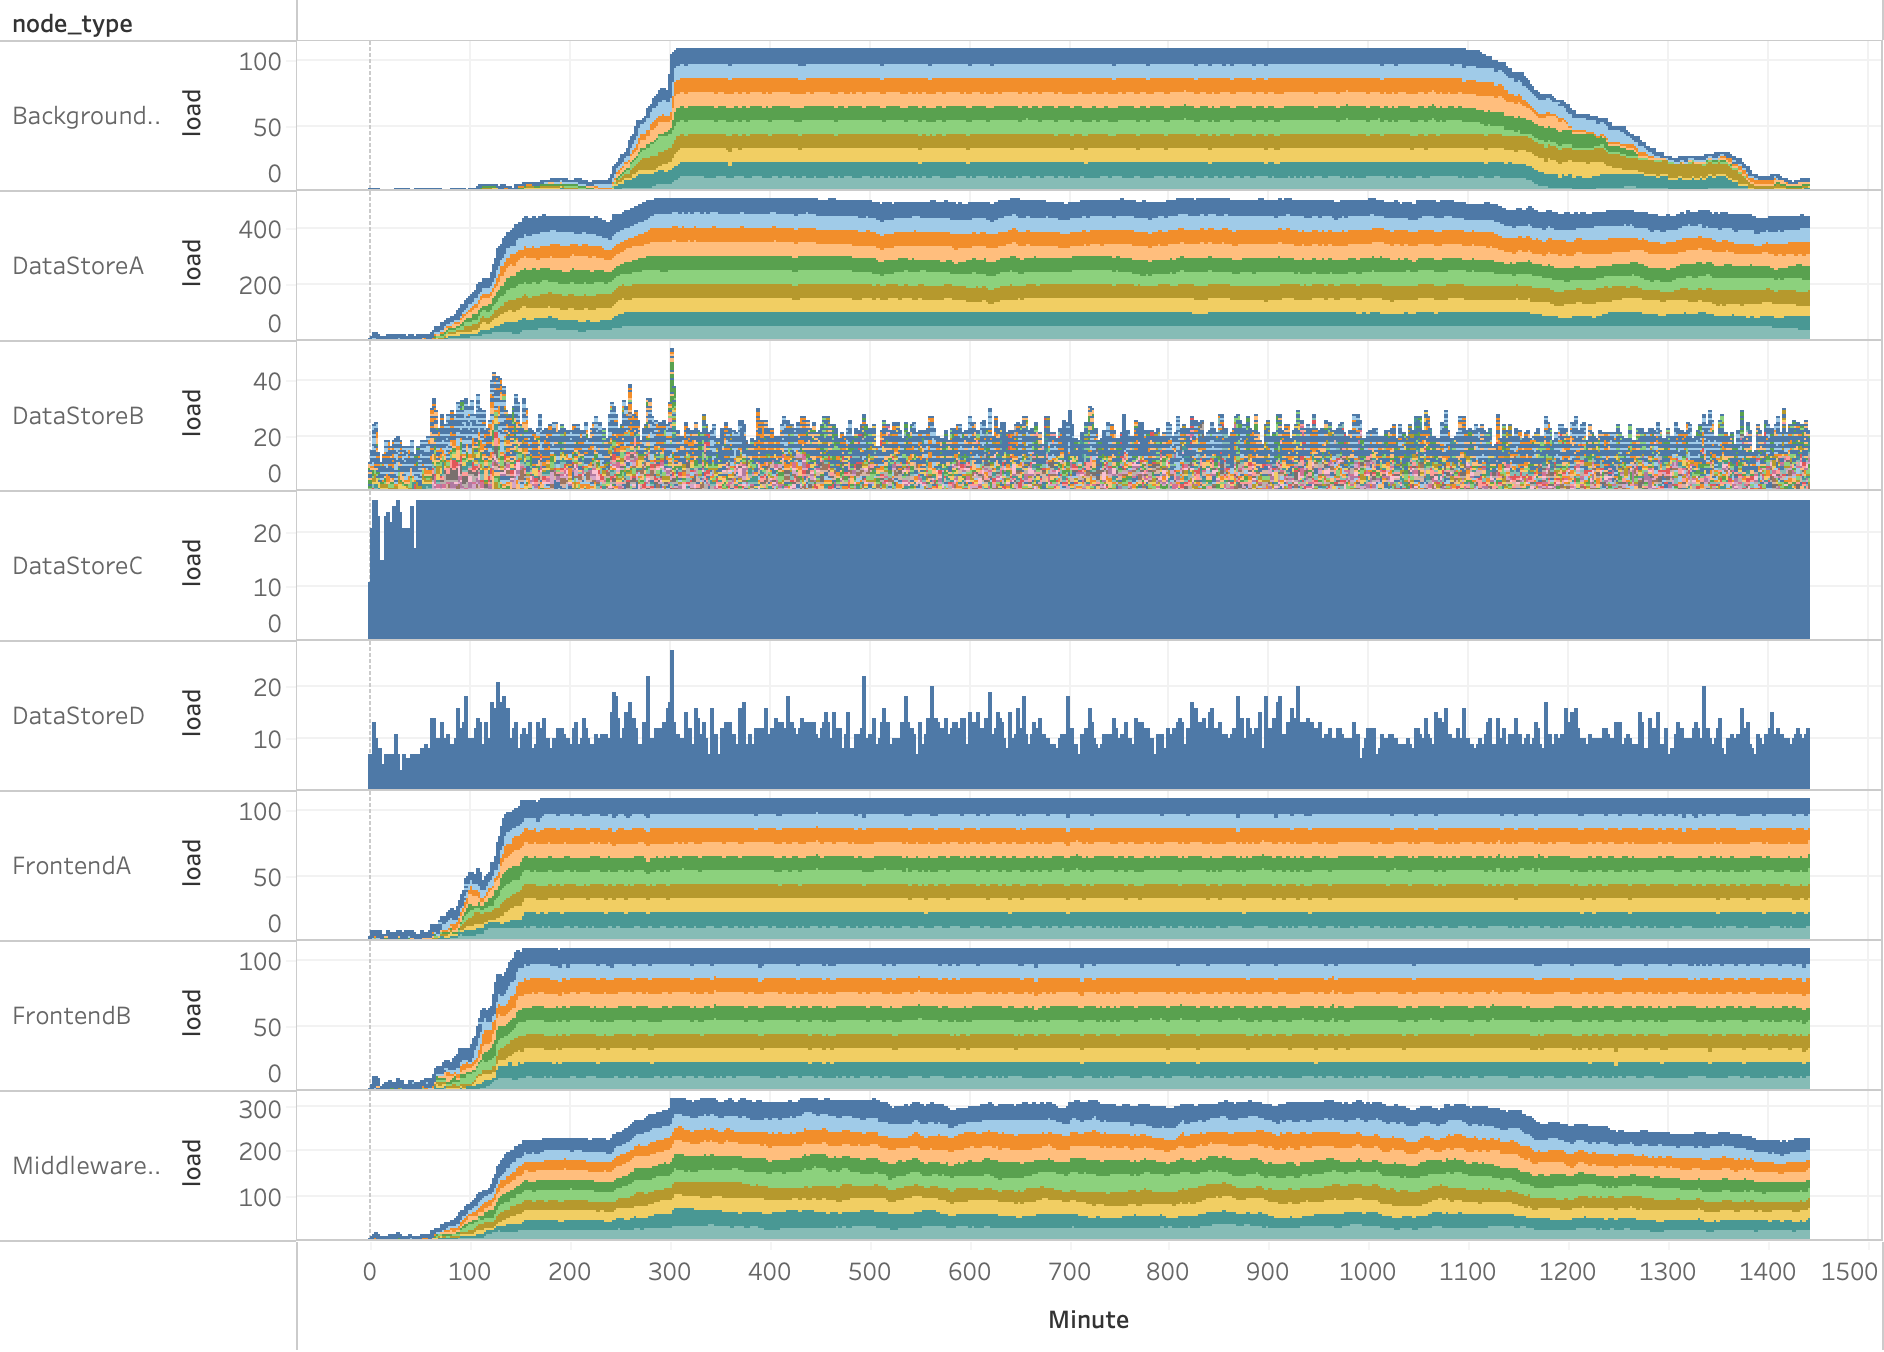
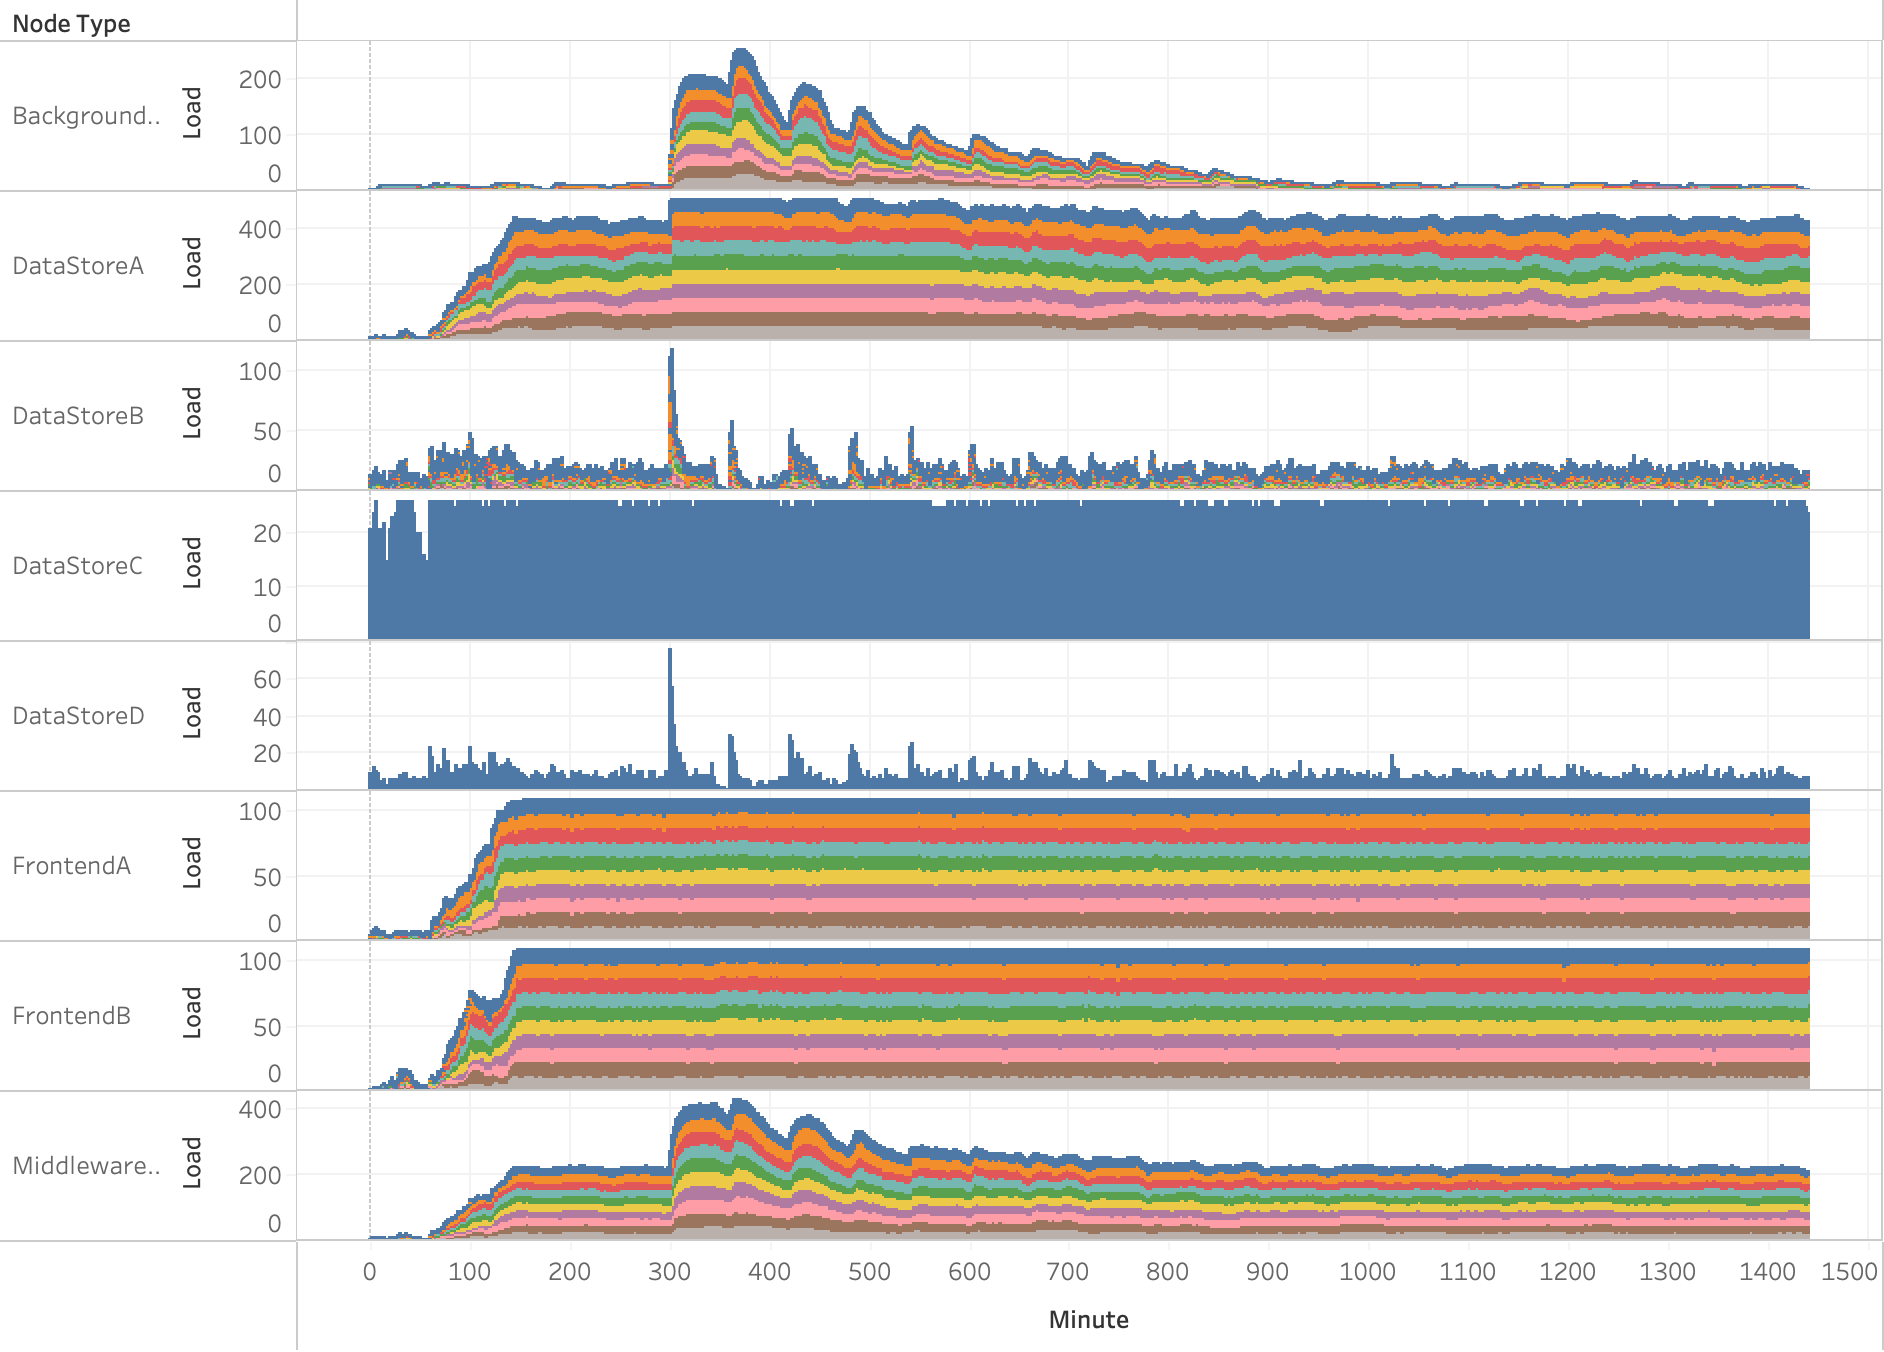
Adding geometric distribution, some other things. Next up; request timeouts

diff --git a/configure.cpp b/configure.cpp
@@ -24,6 +24,8 @@ void initialize_simulation() {
     simulated_load sim;
     assertm(config[v.GetString()].HasMember("load"),
             "No hourly load configured for driver");
+    assertm(config[v.GetString()]["load"].HasMember("distribution"),
+		"No distribution set for hourly load");
     assertm(config[v.GetString()]["load"].HasMember("requests"),
             "No hourly request load");
     assertm(config[v.GetString()]["load"].HasMember("users"),
@@ -48,6 +50,16 @@ void initialize_simulation() {
             "load must be an 24 array");
     assertm(config[v.GetString()]["load"]["sites"].Size() == 24,
             "load must be an 24 array");
+
+    string d = config[v.GetString()]["load"]["distribution"].GetString();
+    
+    if (d == "uniform")
+      sim.distribution = dist_model::UNIFORM;
+    if (d == "normal")
+      sim.distribution = dist_model::NORMAL;
+    if (d == "geometric")
+      sim.distribution = dist_model::GEOMETRIC;
+    
     for (int i = 0; i < 24; i++) {
       external_load hour_load;
       hour_load.requests =
@@ -91,6 +103,11 @@ distribution configure_dist(const Value &input) {
     assert(input["max"].IsInt());
     d.min = input["min"].GetInt();
     d.max = input["max"].GetInt();
+  } else if (strcmp(input["dist"].GetString(), "geometric") == 0) {
+    d.dist = dist_model::GEOMETRIC;
+    assertm(input.HasMember("prob"), "Probability not set on geometric distribution");
+    assert(input["prob"].IsDouble());
+    d.prob = input["prob"].GetDouble();
   } else {
     assertm(false, "Only normal distributions are supported");
   }

diff --git a/simulator.cpp b/simulator.cpp
@@ -61,7 +61,7 @@ void create_request(string node, unsigned long parent_id,
   new_request.network_time_left = get_value(latency[node]);
   // use cache / self time
   unsigned int cache_value = get_value(cache[node]);
-  if (cache_value > get_value_uniform(1, 100)) {
+  if (cache_value > 50) {
     new_request.use_cache = true;
     new_request.self_time_left = 0;
   } else {
@@ -176,7 +176,19 @@ bool tick() {
         for (int r = 0; r < simulation[d].hours[global_clock.hour - 1].requests;
              r++) {
           // create external load request
-          unsigned long ms_splay = get_value_uniform(1, 1000 * 60 * 60);
+	  unsigned long ms_splay;
+	  switch (simulation[d].distribution) {
+	  case UNIFORM:
+	    ms_splay = get_value_uniform(1, 3600000);
+	    break;
+	  case NORMAL:  // This really isn't a useful load model
+	    ms_splay = get_value_normal(30, 15)*60000;
+	    break;
+	  case GEOMETRIC:
+	    ms_splay = get_value_geometric(0.1) * 36000;
+	    break;
+	  }
+
           unsigned long tick_splay = ms_splay / global_clock.ms_per_tick;
           unsigned long adjusted_start_tick =
               global_clock.current_tick + tick_splay;

diff --git a/distribution.cpp b/distribution.cpp
@@ -5,6 +5,17 @@ using namespace std;
 
 default_random_engine generator;
 
+unsigned int get_value_geometric(double prob) {
+  geometric_distribution<int> distribution(prob);
+  double number = distribution(generator);
+  if (number < 0) number = 0;
+  return (unsigned int) number;
+}
+
+unsigned int get_value_geometric(distribution d) {
+  return get_value_geometric(d.prob);
+}
+
 unsigned int get_value_uniform(unsigned int min, unsigned int max) {
   uniform_int_distribution<int> distribution(min, max);
   double number = distribution(generator);
@@ -18,7 +29,7 @@ unsigned int get_value_uniform(distribution d) {
 }
 
 unsigned int get_value_normal(unsigned int mean, unsigned int stddev) {
-  normal_distribution<int> distribution(mean, stddev);
+  normal_distribution<double> distribution(mean, stddev);
   double number = distribution(generator);
   if (number < 0)
     number = 0;
@@ -35,6 +46,8 @@ unsigned int get_value(distribution d) {
     return get_value_normal(d);
   case UNIFORM:
     return get_value_uniform(d);
+  case GEOMETRIC:
+    return get_value_geometric(d);
   default:
     assert(false);
   }

diff --git a/include/distribution.h b/include/distribution.h
@@ -1,6 +1,6 @@
 #pragma once
 
-typedef enum { NORMAL, UNIFORM } dist_model;
+typedef enum { NORMAL, UNIFORM, GEOMETRIC } dist_model;
 
 typedef struct {
   dist_model dist;
@@ -8,8 +8,11 @@ typedef struct {
   unsigned int stddev;
   unsigned int min;
   unsigned int max;
+  double prob;
 } distribution;
 
+unsigned int get_value_geometric(double prob);
+unsigned int get_value_geometric(distribution d);
 unsigned int get_value_uniform(unsigned int min, unsigned int max);
 unsigned int get_value_uniform(distribution d);
 unsigned int get_value_normal(unsigned int mean, unsigned int stddev);

diff --git a/include/bte.h b/include/bte.h
@@ -38,6 +38,7 @@ typedef struct {
 } external_load;
 
 typedef struct {
+  dist_model distribution;
   external_load hours[24];
 } simulated_load;
 

diff --git a/README.md b/README.md
@@ -4,8 +4,6 @@ The (Not Much) Better Than Excel Distributed Systems Simulator fills a gap where
 
 This can help illuminate choke points or issues in a fast and simple way to people inexperienced with the subtlities of the problems. It CANNOT help with correctness (this is not TLA+). It CANNOT help solve existing performance issues. It can help answer very simple what if questions.
 
-This is currently one giant C++ file. The the appropriate encouragement I can make it all fancy-pants.
-
 ## Building
 ```
 > mkdir build
@@ -50,14 +48,15 @@ A node type is defined with an object such as
         "growthmodel": "linear",  // capacity growth model
         "limit": 10,              // capacity limit
         "load": {                 // external load to generate per hour
+        	  "distribution": "geometric",
             "requests": [...],
             "users"   : [...],
             "content" : [...],
             "sites"   : [...]
         },
         "cache": { "dist": "normal", "mean": 50, "stddev": 25 },
-        "self_time": { "dist": "normal", "mean": 1000, "stddev": 250 },
-        "network_latency": { "dist": "normal", "mean": 250, "stddev": 50 },
+        "self_time": { "dist": "uniform", "min": 10, "max": 250 },
+        "network_latency": { "dist": "geometric", "prob": 0.05},
         "dependencies": {
             "NodeTypeB": { "dist": "normal", "mean": 50, "stddev": 10 },
             "NodeTypeC": { "dist": "normal", "mean": 50, "stddev": 10 },
@@ -69,12 +68,18 @@ A node type is defined with an object such as
 * `balanced` defines how requests are balanced across those instances. The options are `random`, `content`, `sites`, `users`
 * `growthmodel` defines how capacity on an instance is regulated as load changes. Currently the options are simple `linear` and `logistic` models
 * `limit` is used by the growth model to set the current capacity
-* `load` is used by the load drivers within the cluster to define the requests and the maximum distinct users, content, and sites to generate per hour. Each of the requests is uniformly distributed between the hours. Each of these arrays should be of length 24 (for each hour of the day) and integers.
-* `cache` defines the probability that the cache will be hit for a request. you specify a distribution (currently `uniform` or `normal`). Values need to be between 0-100.
-* `self_time` defines the time spent servicing the request by the instance itself. It is specified in a distribution of milliseconds in either a `uniform` (with a `max` and `min`) or `normal` distribution (with `mean` and `stddev`.
+* `load` is used by the load drivers within the cluster to define the requests and the maximum distinct users, content, and sites to generate per hour. Each of these arrays should be of length 24 (for each hour of the day) and integers. You must specify how the load is distributed throughout the hour. The choices are `geometric` where most load is distributed at the start of the hour, `uniform` where it is distributed uniformly throughout the hour, and `normal` which is a normal distribution around the 30 minute mark. The parameterization of these distributions is fixed.
+* `cache` defines the probability that the cache will be hit for a request. you specify a distribution (`uniform` or `normal`). A value above 50 will use the cache, so the distributions should be sensibly configured.
+* `self_time` defines the time spent servicing the request by the instance itself. It is specified in a distribution of milliseconds in either a `uniform` or `normal` distribution  or `geometric`.
 * `network_latency` is similar to `self_time`, but cache hits will not impact it.
 * `dependencies` is a list of node types this node depends on and the probability that a particular dependency will be used.
 
+### A note on distributions
+The std c++ [libraries ](https://www.cplusplus.com/reference/random/normal_distribution/)are used to generate the distributions. Some care should be used to pick distributions that may sense and that the parameters are correct. For load distribution within an hour, "normally" distributed load generation make very little sense, but a "geometrically" decreasing load makes sense for jobs which often start on the hour.
+
+* `uniform` only uses the parameters `max` and `min`
+* `normal` uses the parameters `mean` and `stddev`
+* `geometric` uses `prob` which is the probability of each trial
 
 ## Analyzing
 The output of the csv can be used with the visualization tool of your choice. A Tableau workbook is provided to help (used above).
